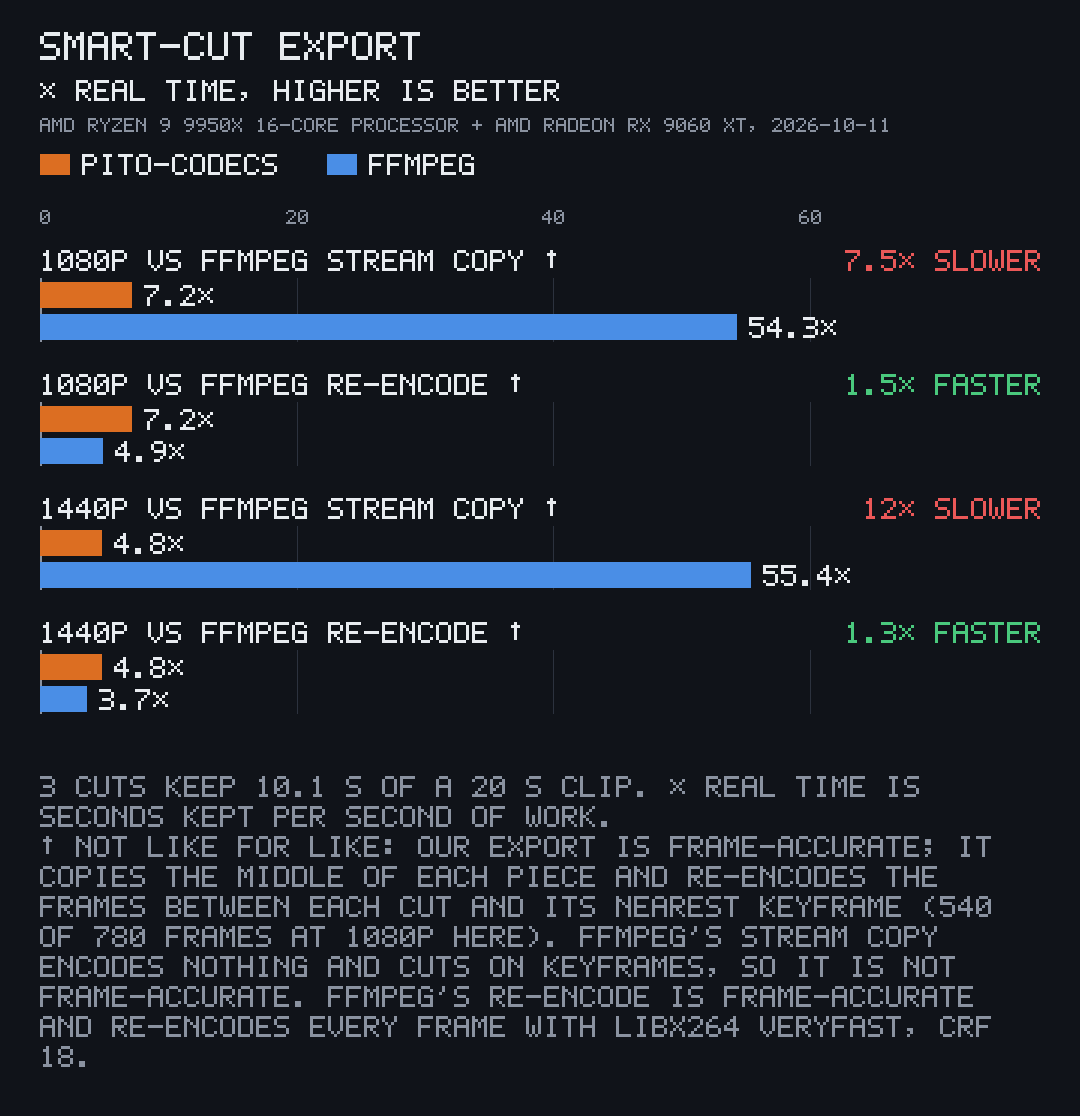
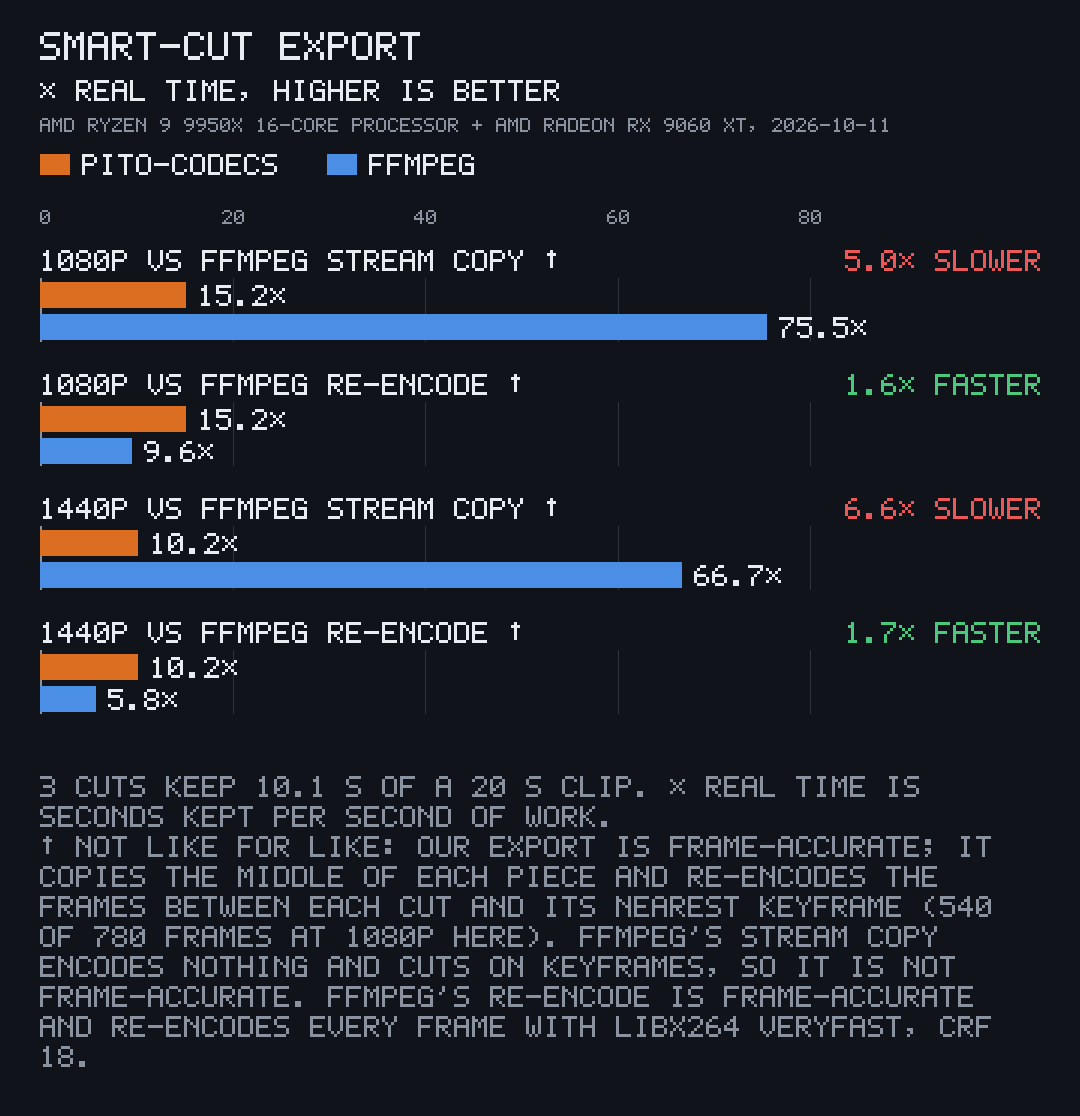
pito-codecs 1.0.0: one benchmark run behind every number, the README's Against ffmpeg, the CHANGELOG section
The charts, the Speed table, the Against ffmpeg summary and the status come
from one run of examples/bench.rs at 91d2582; prose numbers measured elsewhere
are gone.

diff --git a/README.md b/README.md
@@ -1,4 +1,4 @@
-<p align="center"><img src="docs/images/decode.gif" width="800" alt="A terminal running pcod on a 1080p H.264 clip: it probes the file, decodes it at about 1,440 fps on the CPU and about 1,700 fps on the GPU through VA-API, then encodes it to HEVC on the GPU at about 620 fps."></p>
+<p align="center"><img src="docs/images/decode.gif" width="800" alt="A terminal running pcod on a 1080p H.264 clip: it probes the file, decodes it on the CPU and on the GPU through VA-API with the speed of each, then encodes it to HEVC on the GPU."></p>
 
 # pito-codecs
 
@@ -16,41 +16,39 @@ Works on Linux x86-64 and arm64, Windows x86-64 and macOS on Apple Silicon; CI t
 | --- | --- | --- |
 | H.264 | CPU: Baseline, Main and High, progressive 8-bit 4:2:0, CAVLC and CABAC, bit-exact with ffmpeg. GPU: VA-API and VideoToolbox for the same profiles, bit-exact. | CPU: Baseline, Main and High with CABAC and B-frames; CRF, QP, CBR and VBR. GPU: VA-API High; VideoToolbox Main and High. |
 | H.265 | CPU: Main and Main 10, tiles and WPP, bit-exact with ffmpeg. GPU: VA-API and VideoToolbox, Main and Main 10, bit-exact. | GPU only: VA-API Main; VideoToolbox Main and Main 10. Without a GPU HEVC encoder it falls back to H.264 and says why. |
-| VP9 | CPU: profiles 0 to 3 (8, 10 and 12-bit; 4:2:0, 4:2:2 and 4:4:4), tiles, bit-exact with ffmpeg and libvpx. | CPU: profile 0, with motion search, trellis, rate control, AQ and tile threads. ffmpeg and libvpx decode it bit-exact to our reconstruction. 59 to 75 fps at 1080p on 32 threads (Ryzen 9 9950X), as fast as libvpx at `good` speed 4 on the same file, at 6.4 % more bits for the same PSNR. |
+| VP9 | CPU: profiles 0 to 3 (8, 10 and 12-bit; 4:2:0, 4:2:2 and 4:4:4), tiles, bit-exact with ffmpeg and libvpx. | CPU: profile 0, with motion search, trellis, rate control, AQ and tile threads. ffmpeg and libvpx decode it bit-exact to our reconstruction. |
 | AAC | AAC-LC, mono to 7.1. | AAC-LC, CBR and VBR. |
-| Opus | SILK, CELT, hybrid and multistream; the RFC 8251 conformance vectors decode to the reference's final range on every packet. | CELT, VBR and CBR, 6 to 510 kbps, decoded clean by libopus, as good as libopus or better at 64 to 128 kbps. **Experimental:** SILK and hybrid for speech decode clean in libopus but sound worse than libopus at low rates until `v1.1.0` ports its SILK encoder. |
+| Opus | SILK, CELT, hybrid and multistream; the RFC 8251 conformance vectors decode to the reference's final range on every packet. | CELT, VBR and CBR, 6 to 510 kbps, decoded clean by libopus. **Experimental:** SILK and hybrid for speech decode clean in libopus but sound worse than libopus at low rates until `v1.1.0` ports its SILK encoder. |
 | MP4 and MOV | Tracks, sample tables, rotation, edit lists, fragmented files. | MP4 or MOV, faststart or fragmented; remux of a time range without re-encoding. |
 | MKV and WebM | Tracks, lacing, Cues, seeking. | H.264, HEVC, VP9, Opus and AAC; WebM's codec rules enforced; remux. |
 | GIF | GIF87a and 89a, interlace, disposal, transparency, loops. | Oklab palettes, ordered or Floyd-Steinberg dither, frame differencing. |
-| WebP | Lossless VP8L and lossy VP8, alpha, animation; bit-exact with libwebp. | Lossless VP8L and lossy VP8, alpha, animation; faster than libwebp at the same quality. |
+| WebP | Lossless VP8L and lossy VP8, alpha, animation; bit-exact with libwebp. | Lossless VP8L and lossy VP8, alpha, animation. |
 | Filters | | Scale (bilinear, bicubic, Lanczos), BT.601/709/2020 colour, rotate, flip, crop, pad, fps change, RGBA overlay, resample, downmix, gain, EBU R128 loudness, true-peak limiter, normalise. |
 
 The GPU route is tested on Linux with VA-API, on an AMD Radeon RX 9060 XT with Mesa's radeonsi driver, and on macOS with VideoToolbox on GitHub's Apple Silicon runners, where CI checks its decode bit-exact with ffmpeg and decodes its encodes back on every push. NVENC (Linux and Windows) and Media Foundation (Windows) compile for their targets and pass their unit tests, but CI's runners have no GPU, so they stay untested until they run on their hardware.
 
 ## Against ffmpeg
 
-Every number below was measured back to back against the system ffmpeg on the same public clip (the Speed section has the machine, the clip and the command). The charts and the table there show the same results.
+Every number here comes from the one benchmark run that the Speed section describes, and the charts and the table there show the same results.
 
 Where pito-codecs is faster:
 
-- **Time to first frame:** 8 ms against 150 ms for H.264 1440p on the CPU, about 19× (ffmpeg's time includes starting its process).
-- **Filmstrip stills:** 205 against 26 stills per second, about 7.9×.
-- **Smart-cut export against a full re-encode:** 7.2× against 4.9× real time, about 1.5×, frame-accurate on both sides.
-- **GPU decode (VA-API):** H.264 1.2× (frames on the GPU) and 1.6× (read back), HEVC 1.4×.
-- **GPU encode (VA-API, QP 23, 1440p):** H.264 1.2×, HEVC 1.8×; a GPU transcode 1.1×.
-- **Scaling:** 1440p to 1080p bicubic, about 2.2×.
-- **Loudness:** EBU R128, about 6.0×.
-- **AAC encode:** 128 kbps stereo, about 1.8×.
+- **Time to first frame:** 8.7× to 19.8× faster at 1440p, CPU or GPU (4.9 ms against 97.6 ms for H.264 on the CPU; ffmpeg's time includes starting its process).
+- **Filmstrip stills:** 8.2× to 11.7× faster.
+- **Smart-cut export against a full re-encode:** 1.6× to 1.7× faster, frame-accurate on both sides.
+- **GPU decode and encode (VA-API):** 1.1× to 1.2× faster on 9 of the 14 GPU rows, about the same on 5.
+- **Scaling:** 1.6× to 2.2× faster.
+- **Loudness (EBU R128):** 5.8× faster.
+- **AAC encode:** 1.7× faster.
 
 Where ffmpeg still wins:
 
-- **CPU H.264 decode:** about 1.8× faster than ours (971 against 545 fps at 1080p, all threads).
-- **CPU HEVC decode:** about 2.3× faster (897 against 384 fps at 1080p, all threads).
-- **CPU H.264 encode against x264:** libx264 medium is about 2.3× faster (189 against 83 fps at 1080p), and our encoder needs 14 to 35 % more bits for the same quality (BD-rate on three public clips).
-- **AAC decode:** about 2.1× faster (1357× against 633× real time).
-- **Smart-cut export against a stream copy:** ffmpeg's copy is about 7.5× faster (54.3× against 7.2× real time), but it cuts only on keyframes, so it isn't frame-accurate.
-- **VP9 encode:** about as fast as libvpx at `good` speed 4 (59 to 75 against 60 to 64 fps at 1080p), but ours needs 6.4 % more bits for the same PSNR.
-- **Opus speech encode (SILK and hybrid, experimental):** it decodes clean but sounds worse than libopus at low rates.
+- **CPU H.264 decode:** ffmpeg is 1.3× to 1.7× faster (2540 against 1942 fps at 1080p, all threads).
+- **CPU HEVC decode:** on one thread about the same at 1080p, ours 1.1× faster at 1440p; on all threads ours 1.1× slower at 1080p, ours 1.5× slower at 1440p.
+- **CPU H.264 encode against x264:** libx264 is 1.5× to 3.3× faster (medium and veryfast presets).
+- **AAC decode:** ffmpeg is 1.7× faster.
+- **Smart-cut export against a stream copy:** ffmpeg's copy is 5.0× to 6.6× faster, but it encodes nothing and cuts only on keyframes, so it isn't frame-accurate.
+- **Not in this run:** VP9 encode speed and Opus speech (SILK and hybrid) encode quality aren't benchmarked here; Opus speech encode is marked experimental.
 
 ## What it is
 
@@ -192,38 +190,69 @@ The front tries the GPU first and our own CPU code second, for every decode and 
 
 ## Speed
 
-Each pair below was measured back to back against the system ffmpeg on the same file. The machine:
+Each pair below was measured back to back against the system ffmpeg on the same file, in one run on 2026-10-11 at commit `91d2582`:
 
 - **CPU:** AMD Ryzen 9 9950X (16 cores).
 - **GPU:** AMD Radeon RX 9060 XT on Mesa 26.2 radeonsi through VA-API, on Linux.
 - **ffmpeg:** 9.0.1.
 
-The input is 20 s of NASA's public-domain "A Message of Resilience from the International Space Station" (720p60). It was scaled to 1080p and 1440p and encoded with libx264 at CRF 20 and libx265 at CRF 23. The command is `pgpu run -- cargo run --release --example bench -- --runs 3`, which writes `tmp/bench/results.json` and the charts below; `--charts-only` redraws the charts from that file. Each number is the median of three runs. The machine was busy with other builds (load average 34 to 38), so the absolute numbers are floors.
+The input is 20 s of NASA's public-domain "A Message of Resilience from the International Space Station" (720p60), scaled to 1080p and 1440p and encoded with libx264 at CRF 20 and libx265 at CRF 23; the audio is NASA's public-domain solstice interview. The command is `pgpu run -- cargo run --release --example bench -- --runs 1`, which writes `tmp/bench/results.json` and every chart below; `--charts-only` redraws the charts from that file. The machine's load average was 6.09 at the start, so the absolute numbers are floors.
 
 ![Speed against ffmpeg, per job](docs/images/bench-speedup.png)
 
-| Job | pito-codecs | ffmpeg |
-| --- | --- | --- |
-| H.264 1080p decode, VA-API, frames stay on the GPU | 1059 fps | 899 fps |
-| H.264 1440p decode, VA-API, frames stay on the GPU | 1085 fps | 905 fps |
-| HEVC 1440p decode, VA-API, frames stay on the GPU | 1099 fps | 804 fps |
-| H.264 1080p decode, VA-API, frames read back | 447 fps | 278 fps |
-| H.264 1080p decode, CPU, all threads | 545 fps | 971 fps |
-| HEVC 1080p decode, CPU, all threads | 384 fps | 897 fps |
-| H.264 1440p encode, VA-API, QP 23 | 413 fps | 342 fps |
-| HEVC 1440p encode, VA-API, QP 23 | 534 fps | 294 fps |
-| H.264 1440p GPU transcode, frames stay on the GPU | 313 fps | 274 fps |
-| H.264 1080p encode, CPU, CRF 23 (ffmpeg: libx264 medium, hand-written assembly; ours has no hand-written SIMD yet) | 83 fps | 189 fps |
-| H.264 1440p time to first frame, CPU (ffmpeg includes process start) | 8 ms | 150 ms |
-| H.264 1440p filmstrip, 12 stills at 240 px, GPU first | 205 stills/s | 26 stills/s |
-| Smart-cut export 1080p, 3 cuts, frame-accurate (ffmpeg: re-encodes every frame; ours copies the middle and re-encodes around each cut) | 7.2× real time | 4.9× real time |
-| Smart-cut export 1080p against ffmpeg's stream copy (ffmpeg encodes nothing and cuts on keyframes, so it is not frame-accurate) | 7.2× real time | 54.3× real time |
-| Scale 1440p to 1080p, bicubic | 1683 fps | 778 fps |
-| AAC decode, 48 kHz stereo | 633× real time | 1357× real time |
-| AAC encode, 128 kbps stereo | 211× real time | 116× real time |
-| EBU R128 loudness, 48 kHz stereo | 3007× real time | 502× real time |
+| Job | pito-codecs | ffmpeg | pito-codecs is |
+| --- | --- | --- | --- |
+| H.264 1080p decode, CPU, 1 thread | 327 fps | 567 fps | 1.7× slower |
+| H.264 1080p decode, CPU, all threads | 1942 fps | 2540 fps | 1.3× slower |
+| HEVC 1080p decode, CPU, 1 thread | 456 fps | 435 fps | about the same |
+| HEVC 1080p decode, CPU, all threads | 1546 fps | 1729 fps | 1.1× slower |
+| H.264 1440p decode, CPU, 1 thread | 194 fps | 321 fps | 1.7× slower |
+| H.264 1440p decode, CPU, all threads | 1189 fps | 1609 fps | 1.4× slower |
+| HEVC 1440p decode, CPU, 1 thread | 260 fps | 244 fps | 1.1× faster |
+| HEVC 1440p decode, CPU, all threads | 825 fps | 1250 fps | 1.5× slower |
+| H.264 1080p decode, VA-API, frames stay on the GPU | 1150 fps | 1122 fps | about the same |
+| H.264 1080p decode, VA-API, frames read back | 842 fps | 711 fps | 1.2× faster |
+| HEVC 1080p decode, VA-API, frames stay on the GPU | 1202 fps | 1200 fps | about the same |
+| HEVC 1080p decode, VA-API, frames read back | 804 fps | 689 fps | 1.2× faster |
+| H.264 1440p decode, VA-API, frames stay on the GPU | 1140 fps | 1100 fps | about the same |
+| H.264 1440p decode, VA-API, frames read back | 513 fps | 480 fps | 1.1× faster |
+| HEVC 1440p decode, VA-API, frames stay on the GPU | 1163 fps | 1102 fps | 1.1× faster |
+| HEVC 1440p decode, VA-API, frames read back | 475 fps | 442 fps | 1.1× faster |
+| H.264 1080p encode, CPU, CRF 23, against libx264 medium * | 195 fps | 299 fps | 1.5× slower |
+| H.264 1080p encode, CPU, CRF 23, against libx264 veryfast * | 195 fps | 651 fps | 3.3× slower |
+| H.264 1080p encode, VA-API, QP 23 | 727 fps | 611 fps | 1.2× faster |
+| HEVC 1080p encode, VA-API, QP 23 | 843 fps | 698 fps | 1.2× faster |
+| H.264 1440p encode, CPU, CRF 23, against libx264 medium * | 126 fps | 184 fps | 1.5× slower |
+| H.264 1440p encode, CPU, CRF 23, against libx264 veryfast * | 127 fps | 393 fps | 3.1× slower |
+| H.264 1440p encode, VA-API, QP 23 | 422 fps | 369 fps | 1.1× faster |
+| HEVC 1440p encode, VA-API, QP 23 | 550 fps | 479 fps | 1.1× faster |
+| H.264 1440p GPU transcode, frames stay on the GPU | 316 fps | 305 fps | about the same |
+| HEVC 1440p GPU transcode, frames stay on the GPU | 385 fps | 376 fps | about the same |
+| H.264 1440p time to first frame, CPU (ffmpeg includes starting its process) | 4.9 ms | 97.6 ms | 19.8× faster |
+| H.264 1440p time to first frame, GPU (ffmpeg includes starting its process) | 10.8 ms | 94.1 ms | 8.7× faster |
+| HEVC 1440p time to first frame, CPU (ffmpeg includes starting its process) | 7.3 ms | 103.6 ms | 14.2× faster |
+| HEVC 1440p time to first frame, GPU (ffmpeg includes starting its process) | 10.7 ms | 96.1 ms | 8.9× faster |
+| H.264 1080p filmstrip, 12 stills at 240 px, CPU | 442 stills/s | 51 stills/s | 8.7× faster |
+| H.264 1080p filmstrip, 12 stills at 240 px, GPU first | 480 stills/s | 50 stills/s | 9.6× faster |
+| H.264 1440p filmstrip, 12 stills at 240 px, CPU | 286 stills/s | 35 stills/s | 8.2× faster |
+| H.264 1440p filmstrip, 12 stills at 240 px, GPU first | 317 stills/s | 36 stills/s | 8.9× faster |
+| HEVC 1080p filmstrip, 12 stills at 240 px, CPU | 466 stills/s | 46 stills/s | 10.2× faster |
+| HEVC 1080p filmstrip, 12 stills at 240 px, GPU first | 509 stills/s | 49 stills/s | 10.3× faster |
+| HEVC 1440p filmstrip, 12 stills at 240 px, CPU | 313 stills/s | 31 stills/s | 10.0× faster |
+| HEVC 1440p filmstrip, 12 stills at 240 px, GPU first | 357 stills/s | 30 stills/s | 11.7× faster |
+| Smart-cut export 1080p, 3 cuts, against ffmpeg re-encoding every frame (both frame-accurate) † | 15.2× real time | 9.6× real time | 1.6× faster |
+| Smart-cut export 1080p, 3 cuts, against ffmpeg's stream copy (keyframe cuts only, not frame-accurate) † | 15.2× real time | 75.5× real time | 5.0× slower |
+| Smart-cut export 1440p, 3 cuts, against ffmpeg re-encoding every frame (both frame-accurate) † | 10.2× real time | 5.8× real time | 1.7× faster |
+| Smart-cut export 1440p, 3 cuts, against ffmpeg's stream copy (keyframe cuts only, not frame-accurate) † | 10.2× real time | 66.7× real time | 6.6× slower |
+| Scale 1440p to 1080p, bicubic | 3298 fps | 1766 fps | 1.9× faster |
+| Scale 1440p to 720p, bicubic | 3868 fps | 2416 fps | 1.6× faster |
+| Scale 1080p to 720p, bicubic | 5971 fps | 2670 fps | 2.2× faster |
+| Scale 1080p to 1440p, bicubic | 4192 fps | 2474 fps | 1.7× faster |
+| AAC decode, 48 kHz stereo | 960× real time | 1606× real time | 1.7× slower |
+| AAC encode, 128 kbps stereo | 209× real time | 124× real time | 1.7× faster |
+| EBU R128 loudness, 48 kHz stereo | 2962× real time | 509× real time | 5.8× faster |
 
-The CPU decoders have improved since this run: H.264 1440p decode on 16 threads is now about 926 fps and HEVC 1080p about 717 fps, while VP9 and Opus are newer still. The next release reruns the benchmark on a quiet machine.
+\* libx264 is hand-written assembly; our CPU H.264 encoder has no hand-written SIMD yet. † Our export copies the middle of each piece and re-encodes only around each cut, so it is frame-accurate; a stream copy encodes nothing and cuts only on keyframes.
 
 The chart above shows each job as times faster or slower than ffmpeg, on a log scale centred on the same speed, so 2× slower is as long as 2× faster. The charts below hold the measured values, one chart per unit, pito-codecs and ffmpeg side by side on one axis from zero. Rows marked * or † are not like for like, and each chart says why under it.
 

diff --git a/CHANGELOG.md b/CHANGELOG.md
@@ -1,9 +1,14 @@
 # Changelog
 
-## v0.2.0 — 2026-10-11
+## v1.0.0 — 2026-10-11
+
+Every planned format decodes and encodes, on Linux, Windows and macOS. Opus speech encoding (SILK and hybrid) is experimental.
 
 ### Added
 
+- `pcod` is a real binary (behind the `cli` feature), released for Linux x86-64, Windows x86-64 and macOS on Apple Silicon, with SHA256SUMS, LICENSE, README and NOTICE in each archive.
+- The Opus SILK encoder, experimental: it decodes clean in libopus but doesn't yet sound as good as libopus.
+- An "Against ffmpeg" summary in the README, with every win and loss from one benchmark run.
 - GPU playback through the media front: `decode_video_gpu` keeps VA-API frames on the GPU, scaled there, exported as DRM PRIME, with CPU frames when the route falls back.
 - Ranged audio and a track mix in the media front: `audio_pcm_range` and `audio_mix`.
 - VA-API VP9 decode, bit-exact against ffmpeg.
@@ -14,6 +19,11 @@
 
 ### Changed
 
+- H.264 decode: AVX2 deblocking, motion compensation and weighted and bi-prediction into the planes.
+- HEVC decode: AVX2 dequantisation, batched luma deblocking, CTB rows published in two parts and row-aligned slices decoded in parallel.
+- H.264 encode: mbtree lookahead, graded scene cuts and calibrated CRF.
+- Errors name the file they failed on, and every example and pcod print one line and exit 1 instead of panicking.
+- Damaged MP4, MKV, AAC, Opus, Ogg, GIF and WebP input returns an error instead of panicking.
 - H.264 encode: one slice per frame on frame threads with row-published references.
 - VA-API encode: rate control starts with a full one-second buffer, and per-frame quality matches ffmpeg's VA-API encoders.
 - VA-API read-back decode copies into host memory ahead of time, faster than ffmpeg at 1080p and 1440p.
